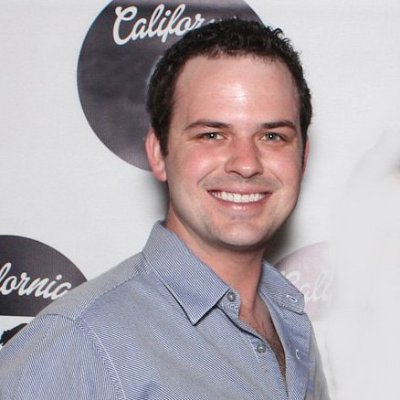
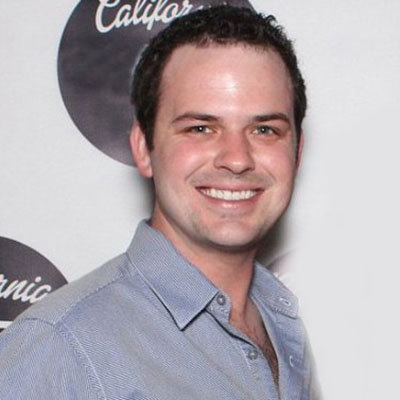
Edited Johnny Pic

diff --git a/Bootstrap-Agency/index.html b/Bootstrap-Agency/index.html
@@ -314,8 +314,7 @@
         <div class="container">
             <div class="row">
                 <div class="col-lg-12 text-center">
-                    <h2 class="section-heading">Our Amazing Team</h2>
-                    <h3 class="section-subheading text-muted">Lorem ipsum dolor sit amet consectetur.</h3>
+                    <h2 class="section-heading">Connect</h2>
                 </div>
             </div>
             <div class="row">
@@ -323,9 +322,9 @@
                 </div>
                 <div class="col-sm-4">
                     <div class="team-member">
-                        <img src="img/team/2.jpg" class="img-responsive img-circle" alt="">
-                        <h4>Larry Parker</h4>
-                        <p class="text-muted">Lead Marketer</p>
+                        <img src="img/team/johnny.jpg" class="img-responsive img-circle" alt="">
+                        <h4>Johnny Whichard</h4>
+                        <p class="text-muted">Executive Interactive Producer</p>
                         <ul class="list-inline social-buttons">
                             <li><a href="#"><i class="fa fa-twitter"></i></a>
                             </li>
@@ -337,19 +336,6 @@
                     </div>
                 </div>
                 <div class="col-sm-4">
-                    <div class="team-member">
-                        <img src="img/team/3.jpg" class="img-responsive img-circle" alt="">
-                        <h4>Diana Pertersen</h4>
-                        <p class="text-muted">Lead Developer</p>
-                        <ul class="list-inline social-buttons">
-                            <li><a href="#"><i class="fa fa-twitter"></i></a>
-                            </li>
-                            <li><a href="#"><i class="fa fa-facebook"></i></a>
-                            </li>
-                            <li><a href="#"><i class="fa fa-linkedin"></i></a>
-                            </li>
-                        </ul>
-                    </div>
                 </div>
             </div>
             <div class="row">
